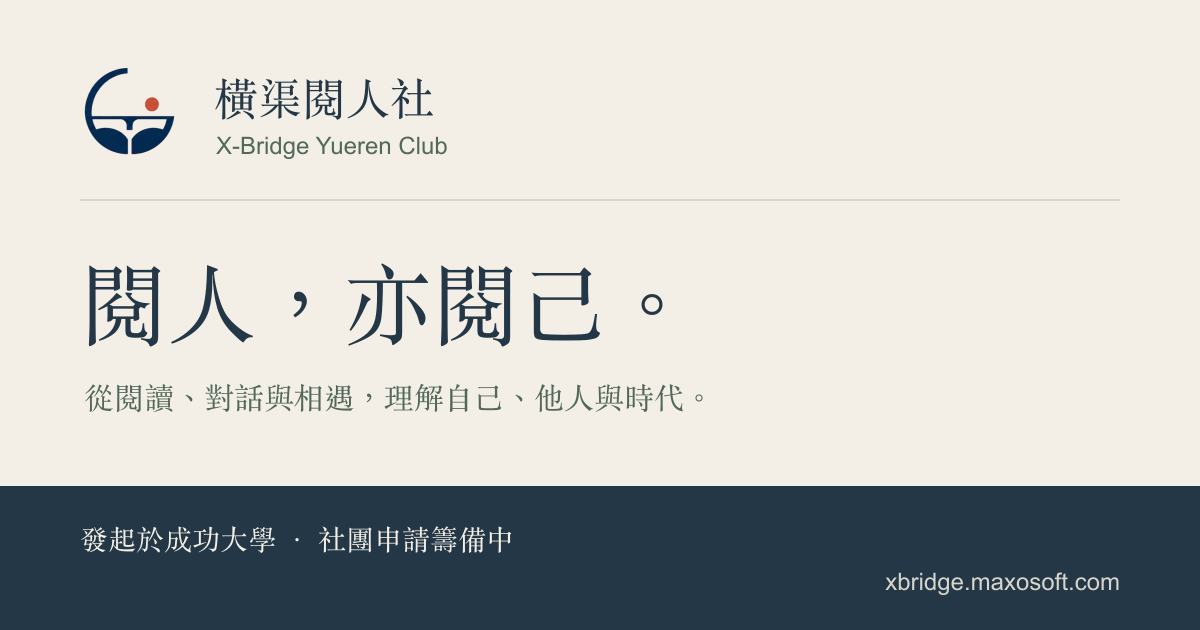
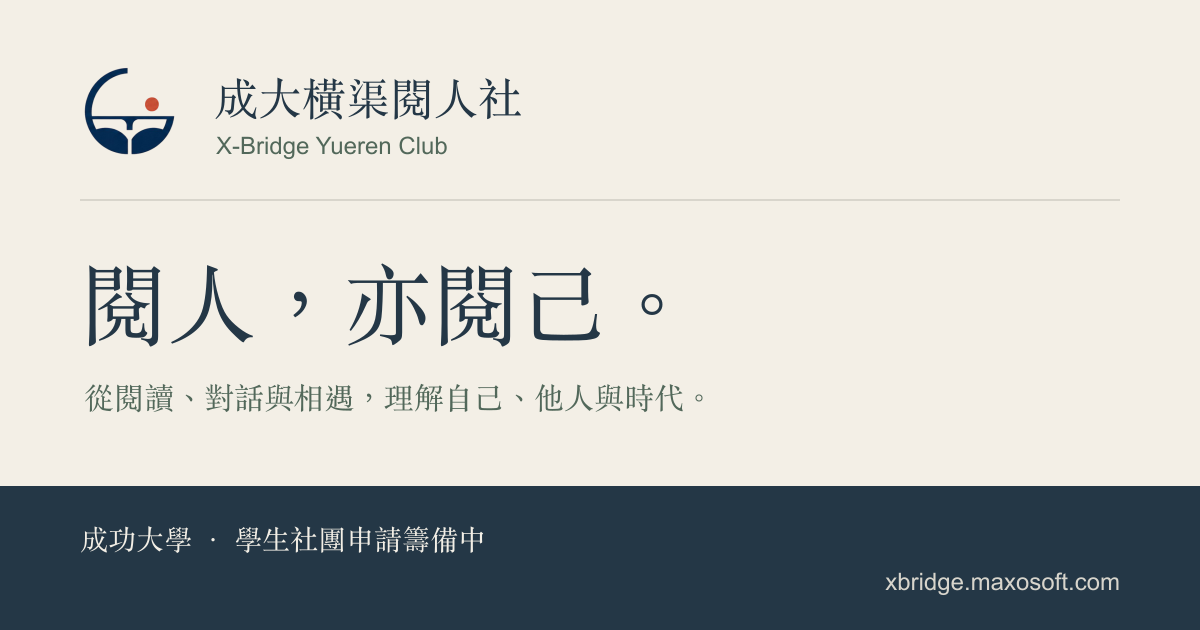
Position club as NCKU Hengqu Yueren Club

Changed region(s): [[0.0617, 0.8143, 0.4317, 0.8746], [0.185, 0.1206, 0.4317, 0.2111]]

diff --git a/README.md b/README.md
@@ -1,6 +1,6 @@
-# 橫渠閱人社網站
+# 成大橫渠閱人社網站
 
-橫渠閱人社的公開介紹網站，使用 Astro 建置並部署至 GitHub Pages。
+成大橫渠閱人社的公開介紹網站，使用 Astro 建置並部署至 GitHub Pages。
 
 ## 本機開發
 
@@ -21,7 +21,7 @@ npm run build
 
 將這個 repository 推送至 GitHub 後，在 repository 的 **Settings → Pages → Build and deployment** 選擇 **GitHub Actions**。之後每次推送到 `main`，`.github/workflows/deploy.yml` 會自動建置並發佈網站。
 
-目前的正式網站為：[橫渠閱人社｜X-Bridge Yueren Club](https://xbridge.maxosoft.com/)。
+目前的正式網站為：[成大橫渠閱人社｜X-Bridge Yueren Club](https://xbridge.maxosoft.com/)。
 
 GitHub Pages 的預設網址仍可使用：
 
@@ -40,6 +40,6 @@ Repository: https://github.com/r78101011/hengqu-reading-society
 - 首頁內容與參與常見問題位於 `src/pages/index.astro`。
 - 目前活動資訊仍以籌備中呈現。活動時間、頻率、地點、參加對象與報名方式定案後，需同步更新「參與前想知道的事」及 LINE 公告。
 - 分享圖為 `public/social-card.png`，SVG 為同版向量來源。更新分享圖時，也要更新首頁的 `socialImageUrl` 版本參數。
-- 目前對外身分維持「發起於成功大學 · 社團申請籌備中」；正式核准後需同步調整頁面、分享圖與圖片替代文字。
+- 目前對外身分維持「成大橫渠閱人社 · 學生社團申請籌備中」；正式核准後需同步調整頁面、分享圖與圖片替代文字。
 
 2026-09-10 已調整桌面欄位排列、手機標題與導覽、首頁加入入口及三種閱讀引言，並新增原生可展開的參與常見問題。
